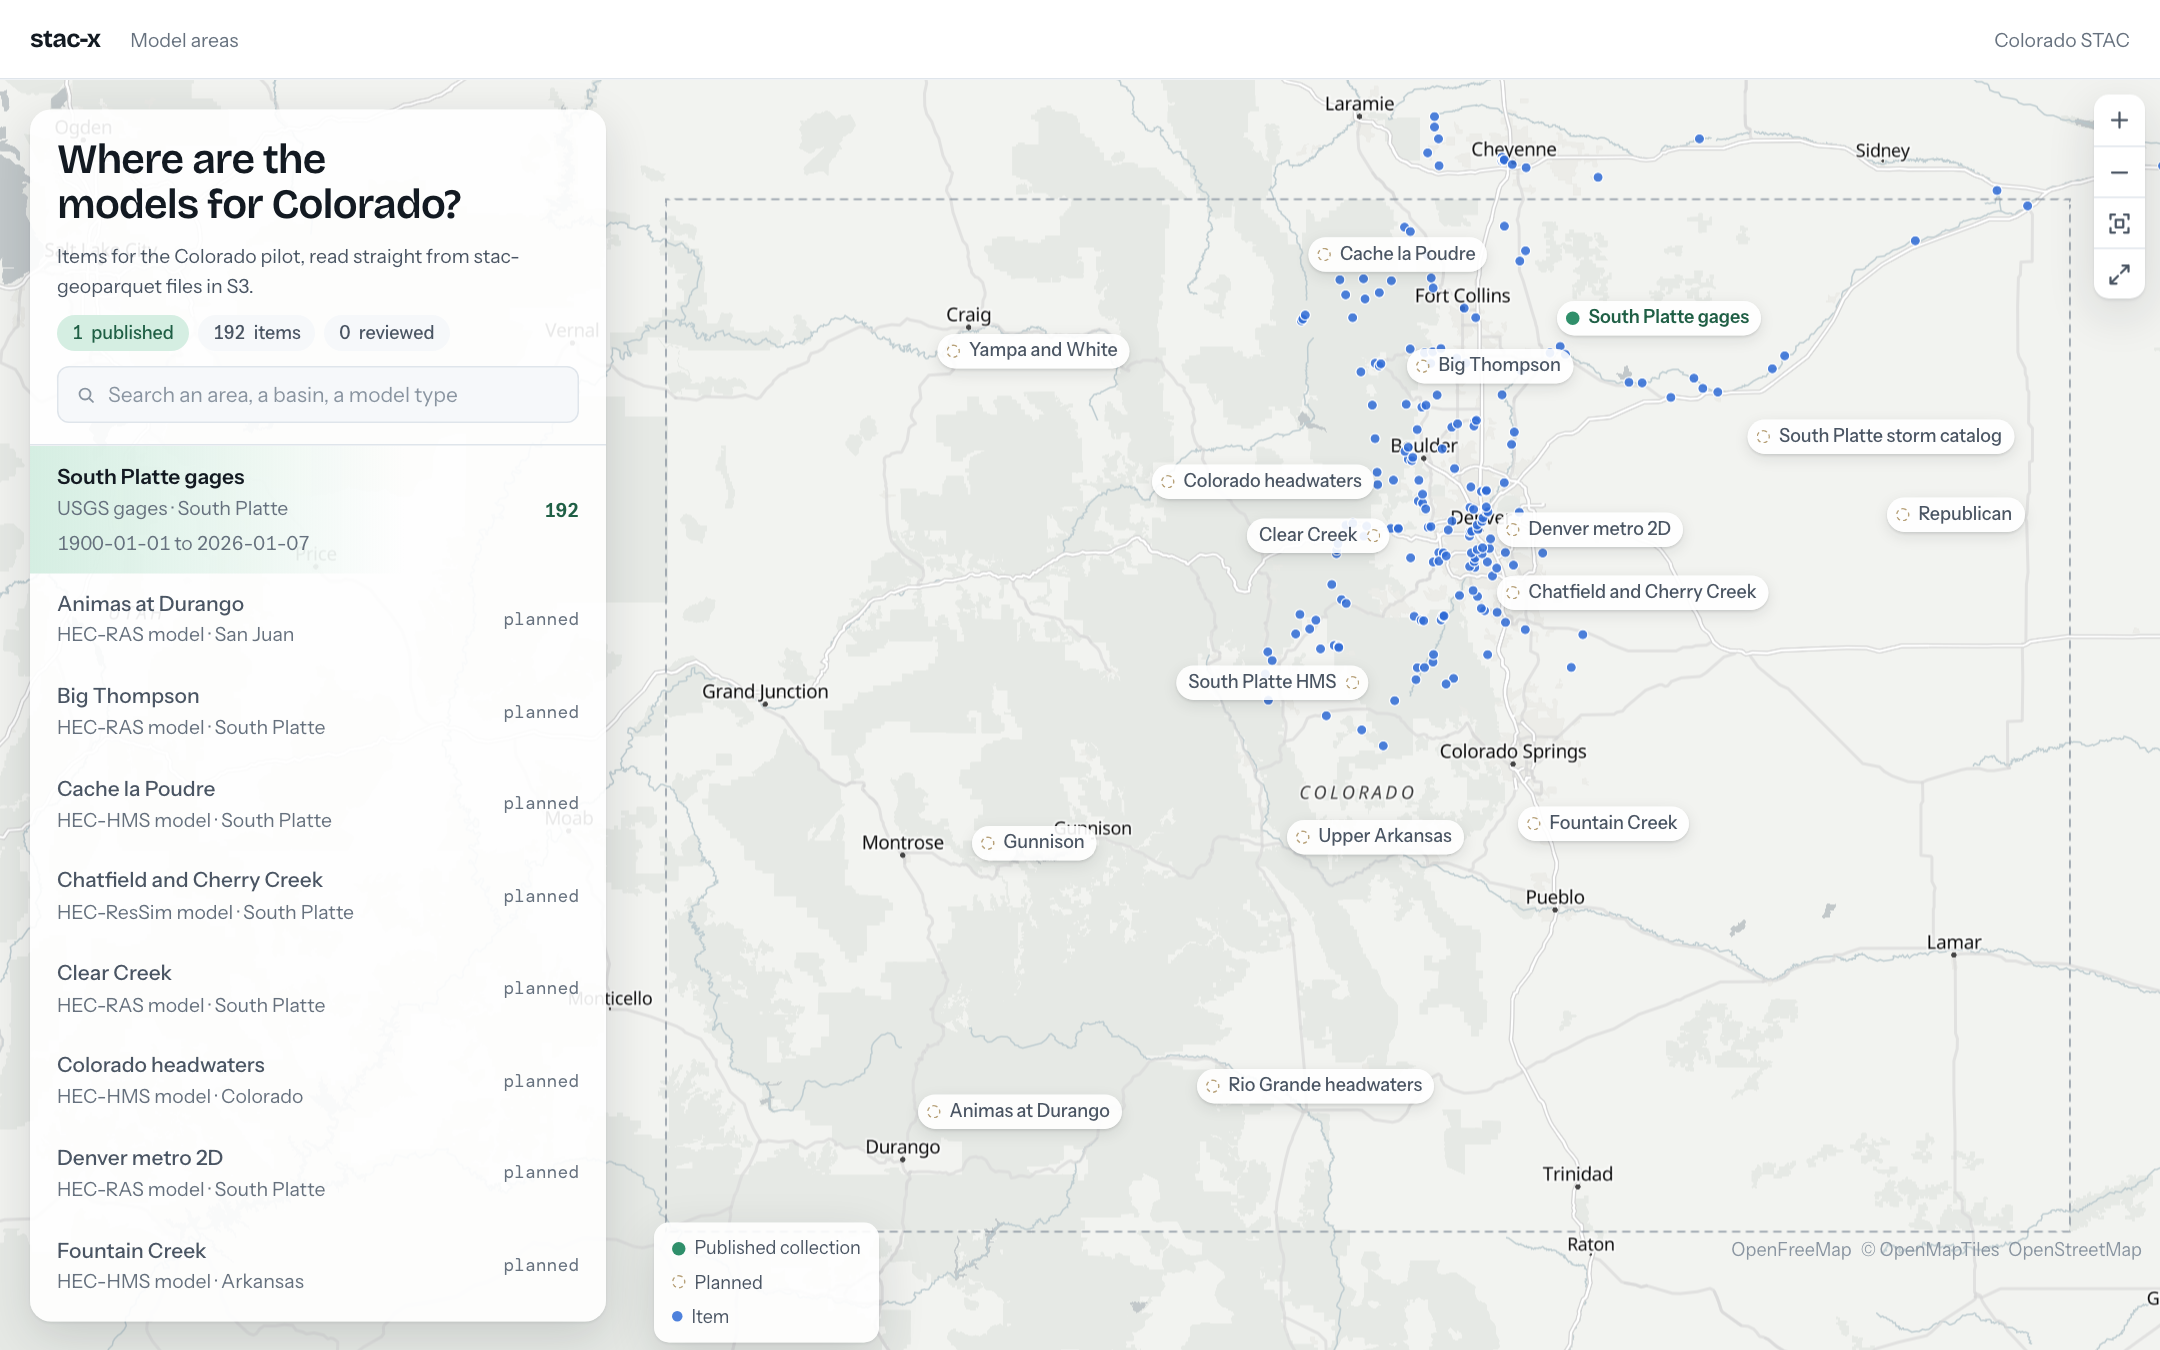
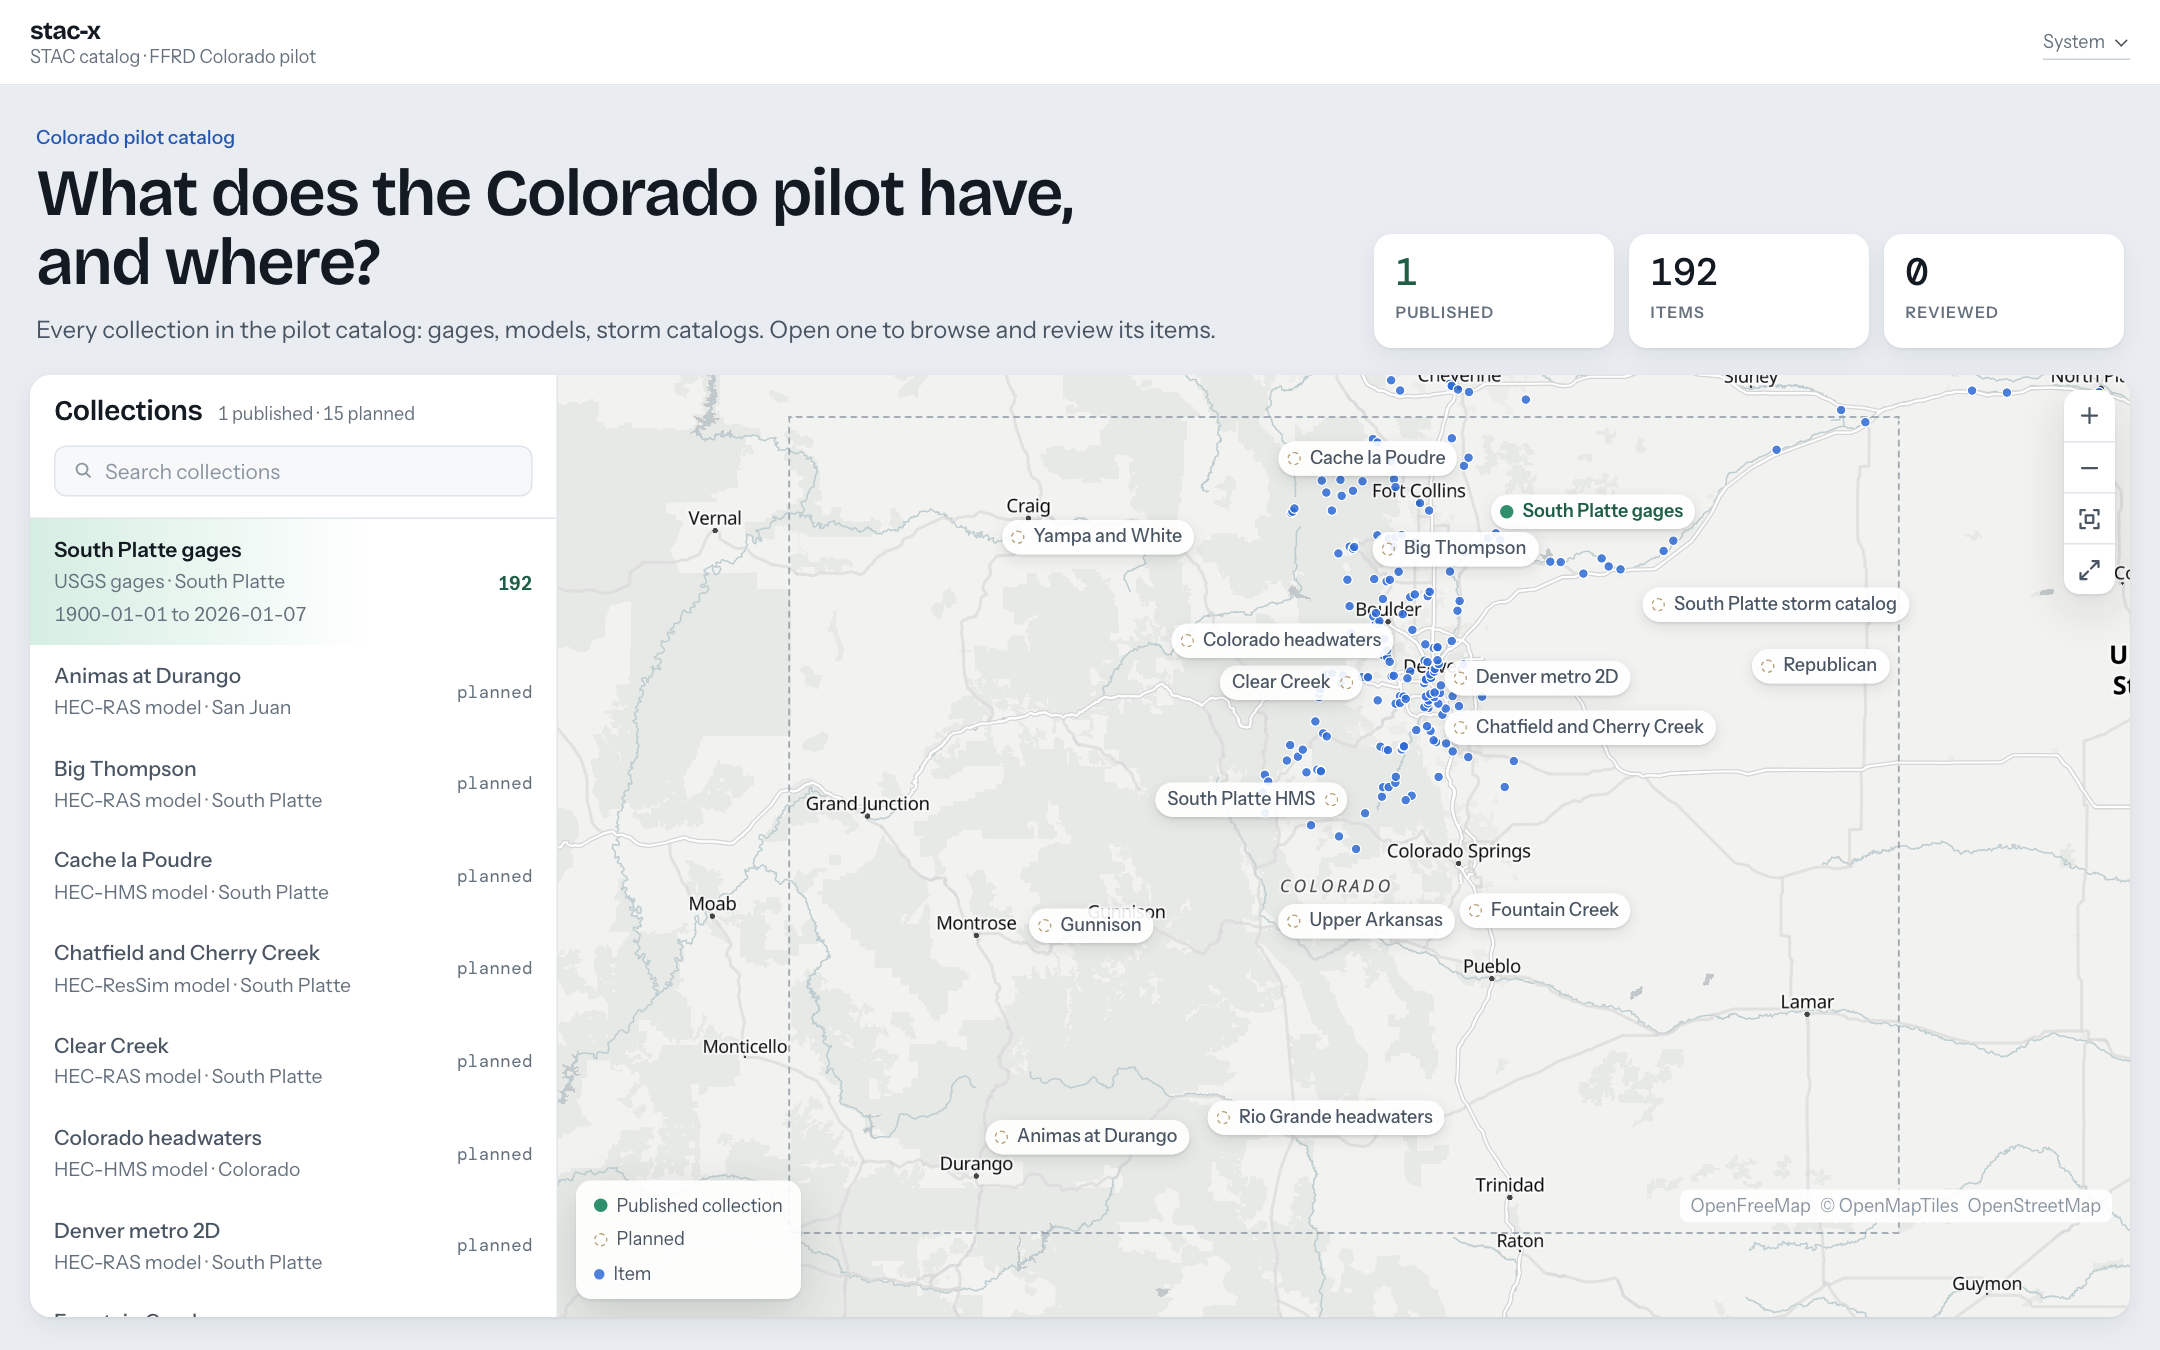
Header: wordmark with tagline and theme control; homepage copy speaks of collections, wider hero measure

diff --git a/src/components/home.tsx b/src/components/home.tsx
@@ -10,7 +10,7 @@ import { fmtNum, fmtRange } from "@/lib/format";
 /**
  * The landing page, after Alaska Ground Watch: a hero row that runs the
  * full width (the question on the left, three figures on the right), then
- * one console card holding the list of model areas beside the map. One
+ * one console card holding the list of collections beside the map. One
  * shared hover joins the list and the pins, so pointing at a name finds its
  * mark and pointing at a mark finds its name.
  *
@@ -68,7 +68,7 @@ export function HomeConsole({
     <div className="sx-home">
       <section className="sx-hero">
         <div className="sx-hero-text">
-          <p className="sx-eyebrow">FFRD · Colorado pilot</p>
+          <p className="sx-eyebrow">Colorado pilot catalog</p>
           <h1 className="sx-hero-title">{title}</h1>
           <p className="sx-hero-lead">{lead}</p>
         </div>
@@ -92,12 +92,12 @@ export function HomeConsole({
         <div className="sx-console-map">
           <HomeMap areas={areas} items={items} highlight={hovered} onHover={setHovered} />
         </div>
-        <aside className="sx-rail" aria-label="Model areas">
+        <aside className="sx-rail" aria-label="Collections">
           <div className="sx-rail-head">
             <div className="sx-rail-title">
-              <h2>Model areas</h2>
+              <h2>Collections</h2>
               <span className="ffx-num">
-                {totals.live} published · {areas.length} total
+                {totals.live} published · {areas.length - totals.live} planned
               </span>
             </div>
             <label className="ffx-field">
@@ -105,10 +105,10 @@ export function HomeConsole({
                 <circle cx="7" cy="7" r="4.5" />
                 <path d="m10.5 10.5 3 3" strokeLinecap="round" />
               </svg>
-              <span className="sr-only">Search model areas</span>
+              <span className="sr-only">Search collections</span>
               <input
                 type="search"
-                placeholder="Search areas"
+                placeholder="Search collections"
                 value={query}
                 onChange={(e) => setQuery(e.target.value)}
               />

diff --git a/src/app/globals.css b/src/app/globals.css
@@ -140,7 +140,7 @@
   --ffx-panel-pad: 1rem;
   --ffx-inset-text: 0;
   --ffx-deck-gap: 0.875rem;
-  --ffx-header: 3.25rem;
+  --ffx-header: 3.5rem;
   --ffx-radius-xs: 6px;
   --ffx-radius-sm: 8px;
   --ffx-radius-md: 12px;
@@ -1195,26 +1195,26 @@
   padding-inline: var(--ffx-edge);
 }
 .sx-brand {
+  display: grid;
+  gap: 0.05rem;
+  color: var(--ffx-ink);
+  text-decoration: none;
+  min-width: 0;
+}
+.sx-brand-name {
   font-family: var(--ffx-display);
   font-size: 1.05rem;
+  line-height: 1.15;
   font-weight: 700;
   letter-spacing: -0.03em;
-  color: var(--ffx-ink);
-  text-decoration: none;
 }
-.sx-nav {
-  display: flex;
-  gap: 1rem;
-  font-size: var(--ffx-t-small);
-}
-.sx-nav a {
+.sx-brand-tag {
+  font-size: var(--ffx-t-micro);
+  line-height: 1.2;
   color: var(--ffx-ink-mut);
-  text-decoration: none;
-  padding-block: 0.25rem;
-}
-.sx-nav a:hover,
-.sx-nav a[aria-current="page"] {
-  color: var(--ffx-ink);
+  white-space: nowrap;
+  overflow: hidden;
+  text-overflow: ellipsis;
 }
 .sx-footer {
   display: flex;
@@ -1393,7 +1393,7 @@ main:focus {
 
    After Alaska Ground Watch. A hero row runs the full content width: the
    question on the left, figures on the right. Under it, one console card
-   holds the list of model areas beside the map. On a phone the hero stacks,
+   holds the list of collections beside the map. On a phone the hero stacks,
    the map is its own card and the list flows under it. */
 .sx-home {
   display: grid;
@@ -1412,18 +1412,18 @@ main:focus {
 }
 .sx-hero-title {
   margin-top: 0.25rem;
-  max-width: 22ch;
+  max-width: 36ch;
   font-family: var(--ffx-display);
   font-size: clamp(1.75rem, 1.2rem + 2vw, 2.75rem);
   line-height: 1.04;
   font-weight: 600;
   letter-spacing: -0.03em;
   color: var(--ffx-ink);
-  text-wrap: balance;
+  text-wrap: pretty;
 }
 .sx-hero-lead {
   margin-top: 0.625rem;
-  max-width: 58ch;
+  max-width: 78ch;
   font-size: var(--ffx-t-body);
   line-height: var(--ffx-t-body-lh);
   color: var(--ffx-ink-sec);

diff --git a/src/components/shell.tsx b/src/components/shell.tsx
@@ -1,13 +1,13 @@
 import Link from "next/link";
 import type { ReactNode } from "react";
 import { ThemeToggle } from "./theme";
-import { catalogTitle } from "@/lib/config";
 export { Icon, ICONS } from "./icons";
 
 /**
- * The page chrome: a white header bar with the wordmark, and a quiet footer
- * with the palette control. Navigation is the map and the breadcrumbs, the
- * way every STAC viewer works.
+ * The page chrome: a white header bar with the wordmark and a one-line
+ * tagline, the palette control at its right end, and a quiet footer.
+ * Navigation is the map and the breadcrumbs, the way every STAC viewer
+ * works, so the header carries no links.
  */
 
 export function SiteHeader() {
@@ -18,12 +18,12 @@ export function SiteHeader() {
       </a>
       <div className="ffx-shell sx-header-inner">
         <Link href="/" className="sx-brand">
-          stac-x
+          <span className="sx-brand-name">stac-x</span>
+          <span className="sx-brand-tag">STAC catalog · FFRD Colorado pilot</span>
         </Link>
-        <nav className="sx-nav" aria-label="Primary">
-          <Link href="/">Model areas</Link>
-        </nav>
-        <span className="ml-auto hidden text-small text-ink-mut sm:inline">{catalogTitle}</span>
+        <div className="ml-auto">
+          <ThemeToggle />
+        </div>
       </div>
     </header>
   );
@@ -33,7 +33,6 @@ export function SiteFooter() {
   return (
     <footer className="ffx-shell sx-footer">
       <span>stac-x reads stac-geoparquet from S3. QC edits are written back beside the source file.</span>
-      <ThemeToggle />
     </footer>
   );
 }

diff --git a/src/app/page.tsx b/src/app/page.tsx
@@ -75,7 +75,7 @@ export default async function Home() {
       <HomeConsole
         areas={areas}
         items={items}
-        title="Where are the models for Colorado?"
+        title="What does the Colorado pilot have, and where?"
         lead={catalogDescription}
         totals={totals}
       />
@@ -86,7 +86,7 @@ export default async function Home() {
             : `Reading ${catalog.sources.length} ${catalog.sources.length === 1 ? "file" : "files"}: ${catalog.sources
                 .map((s) => baseName(s.uri))
                 .join(", ")}.`}{" "}
-          Areas without a published collection are placeholders until their data lands in the bucket.
+          Collections marked planned are placeholders until their data lands in the bucket.
         </span>
         {catalog.errors.length > 0 && (
           <span className="text-bad-text">

diff --git a/src/lib/config.ts b/src/lib/config.ts
@@ -26,7 +26,7 @@ export function sources(): string[] {
 export const catalogTitle = process.env.STAC_TITLE || "Colorado STAC";
 export const catalogDescription =
   process.env.STAC_DESCRIPTION ||
-  "Every published collection for the FFRD Colorado pilot. Open an area to browse and review its items.";
+  "Every collection in the pilot catalog: gages, models, storm catalogs. Open one to browse and review its items.";
 
 /** How long a parsed file is trusted before its ETag is checked again. */
 export const refreshMs = Number(process.env.STAC_REFRESH_SECONDS || 30) * 1000;

diff --git a/src/components/home-map.tsx b/src/components/home-map.tsx
@@ -259,7 +259,7 @@ export function HomeMap({
   }, [items]);
 
   return (
-    <figure ref={frameRef} className="ffx-map sx-home-map" aria-label="Model areas across Colorado">
+    <figure ref={frameRef} className="ffx-map sx-home-map" aria-label="Collections across Colorado">
       <div ref={canvasRef} className="ffx-map-canvas sx-home-canvas" />
       {basemapDown && <div className="ffx-map-note">Basemap unavailable, showing data only.</div>}
       <figcaption className="ffx-map-readout">

diff --git a/README.md b/README.md
@@ -10,7 +10,7 @@ The narrow column holds the map and what describes the object (metadata,
 assets). The wide column holds what it contains (items) or what there is to
 read about it. On a phone the columns stack, map first.
 
-![The stac-x homepage: a map of Colorado with every model area pinned and the published gages collection drawn on it](docs/images/home.png)
+![The stac-x homepage: a map of Colorado with every collection pinned and the published gages drawn on it](docs/images/home.png)
 
 ## Running it
 
